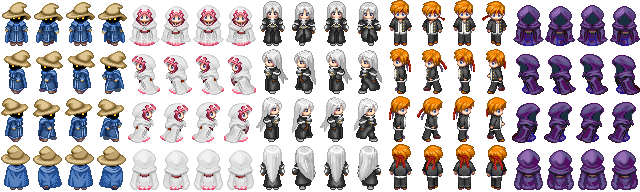
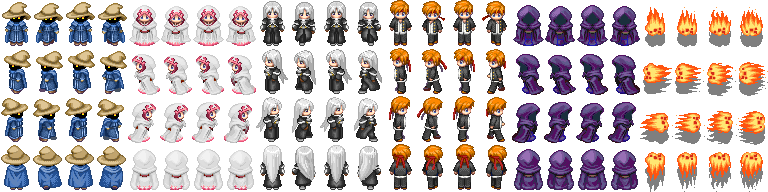
add projectile weapon support

diff --git a/js/game/GameState.js b/js/game/GameState.js
@@ -165,6 +165,33 @@ var Character =
         });
     },
     
+    spawnCharacterAtFront: function(charNum, script)
+    {
+        return function(gameState, next)
+	{
+	    var front = gameState.world.getFrontOf(gameState.currChar);
+            var char = gameState.world.addCharacter(charNum, front.x, front.y);
+	    gameState.world.rotateCharacter(char, gameState.world.getCharacterRotation(gameState.currChar));
+            gameState.characterScript(char, script);
+	    
+	    gameState.characters[char] = new GameCharacter(char);
+	    next();
+	}
+    }, 
+    
+    walkForward: function(gameState, next)
+    {
+	gameState.world.moveCharacter(gameState.currChar,
+	    gameState.world.getCharacterRotation(gameState.currChar), true, function()
+        {
+            next();
+        },
+	function()
+        {
+            next();
+        });
+    },
+    
     setSlow: function(slowness)
     {
         return function(gameState, next)
@@ -248,6 +275,18 @@ var Character =
 	}
     },
     
+    assignS: function(script)
+    {
+	return function(gameState, next)
+	{
+	    var currActions = gameState.input.getActions();
+	    var currChar = gameState.currChar;
+	    currActions.sActionOnce = function() { gameState.characterScript(currChar, script); };
+	    gameState.input.setActions(currActions);
+	    next();
+	}
+    },
+    
     assignInteract: function(script)
     {
         return function(gameState, next)
@@ -274,6 +313,13 @@ var Character =
 	    func(gameState.currChar);
             next();
         }
+    },
+    
+    die: function(gameState, next)
+    {
+	gameState.world.removeCharacter(gameState.currChar);
+	gameState.characters[gameState.currChar] = undefined;
+	next();
     }
 }
 
@@ -315,6 +361,13 @@ var Interaction =
 	gameState.characters[gameState.interactee].charScriptRunning = true;
 	next();
     },
+    
+    die: function(gameState, next)
+    {
+	gameState.world.removeCharacter(gameState.currChar);
+	gameState.characters[gameState.currChar] = undefined;
+	next();
+    }
 };
 
 var Script =

diff --git a/index.html b/index.html
@@ -174,13 +174,28 @@ function startGame()
 		})
 	];
 	
+	var fireballScript =
+	[
+		Character.setSlow(8),
+		Character.walkForward,
+		Character.walkForward,
+		Character.walkForward,
+		Character.walkForward,
+		Character.walkForward,
+		Character.walkForward,
+		Character.walkForward,
+		Character.walkForward,
+		Character.die,
+	];
+	
 	var heroScript =
 	[
 		Character.centerCamera,
 		Character.assignDirectionalControl,
 		Character.assignZ(setTile),
 		Character.assignX(clearTile),
-		Character.assignA([Character.interact])
+		Character.assignA([Character.interact]),
+		Character.assignS([Character.spawnCharacterAtFront(5,fireballScript)])
 	];
 	
 	var boyTalkedToScript =
@@ -188,7 +203,7 @@ function startGame()
 		Interaction.pauseInteractee,
 		Interaction.faceInteractor,
 		Script.showDialog(dialog),
-		Script.speechDialog(dialog, ["Hai desu?"]),
+		Script.speechDialog(dialog, ["にょろ〜ん"]),
 		Script.hideDialog(dialog),
 		Interaction.resumeInteractee
 	];

diff --git a/js/World.js b/js/World.js
@@ -9,7 +9,7 @@ function World(tileset, charset, tileinfo, mapinfo)
 		[10, 0, 1, 2, 6, 7, 9, 8],
 		[10, 2, 3, 4, 0, 1, 9, 8],
 		[10, 4, 5, 6, 2, 3, 9, 8],
-		[10, 6, 7, 0, 4, 5, 9, 8]	
+		[10, 6, 7, 0, 4, 5, 9, 8]
 	];
 	
 	var corner =
@@ -196,14 +196,16 @@ function World(tileset, charset, tileinfo, mapinfo)
         }
 	
 	this.removeCharacter = function(char) {
-		model.removeCharacter(char);
 		var c = model.getCharacter(char);
+		model.removeCharacter(char);
 		setOccupant(undefined, c.tilex, c.tiley);
 	}
         
         this.moveCharacter = model.moveCharacter;
 	
         this.rotateCharacter = model.rotateCharacter;
+	
+	this.getCharacterRotation = model.getCharacterRotation;
         
         this.teleportCharacter = model.teleportCharacter;
 	

diff --git a/js/CanvasMapView.js b/js/CanvasMapView.js
@@ -79,7 +79,10 @@ function CanvasMapView(x,y,z,w,h,mapModel)
         for(var idx in characters)
         {
             var char = characters[idx];
-                    
+	    
+	    if (char === undefined) {
+		continue;
+	    }
             var left = ((char.x+1/2) * tileSize - char.width/2 - (cameraPos.x) * tileSize) ;
             var top = ((char.y+1) * tileSize - char.height - (cameraPos.y) * tileSize) ;
             

diff --git a/js/MapModel.js b/js/MapModel.js
@@ -192,6 +192,12 @@ function MapModel(tileset, charset, tileSize, mapfunc)
 		char.direction = direction;
 	}
 	
+	this.getCharacterRotation = function(number)
+	{
+		var char = characters[number];
+		return char.direction;
+	}
+	
 	this.moveCharacter = function(number, direction, autoRotate, onCompleteMovement, onCollide)
 	{
 		onCollide = onCollide || function() { };
